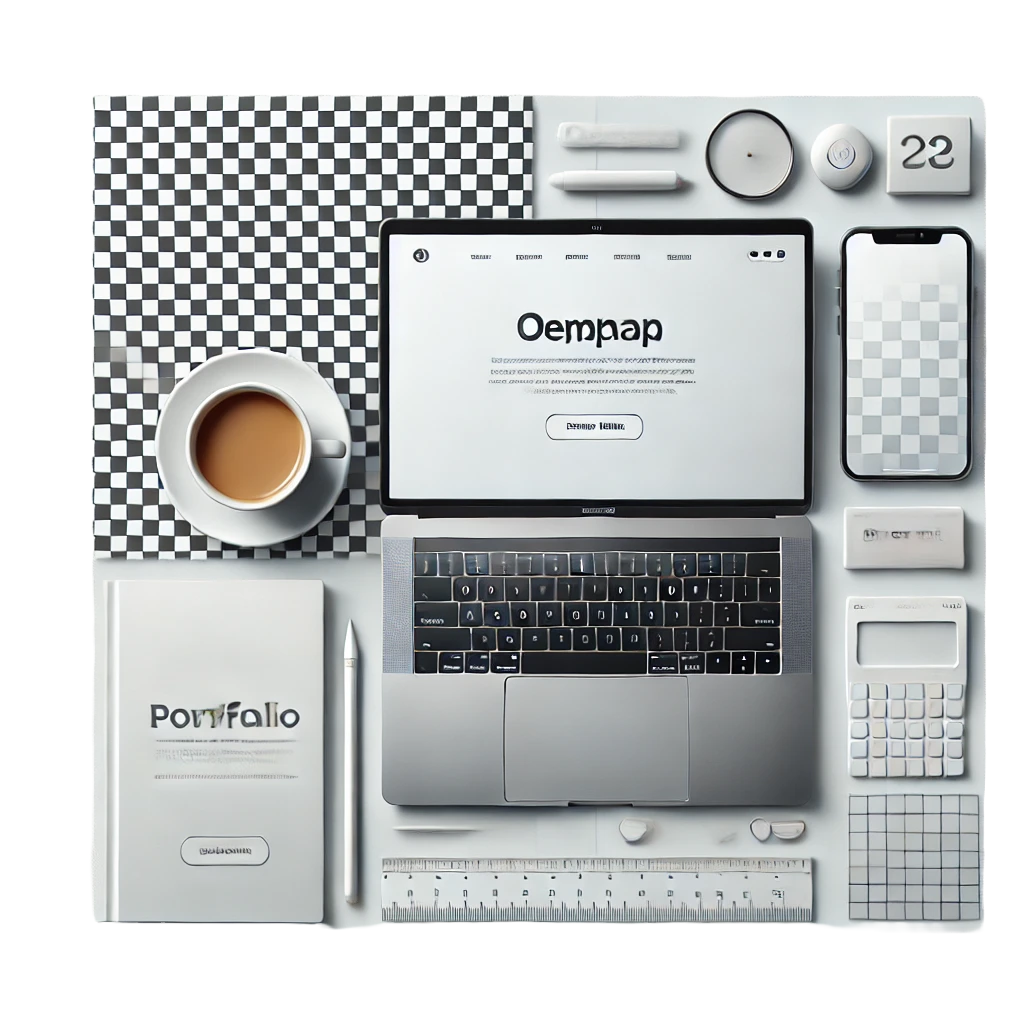
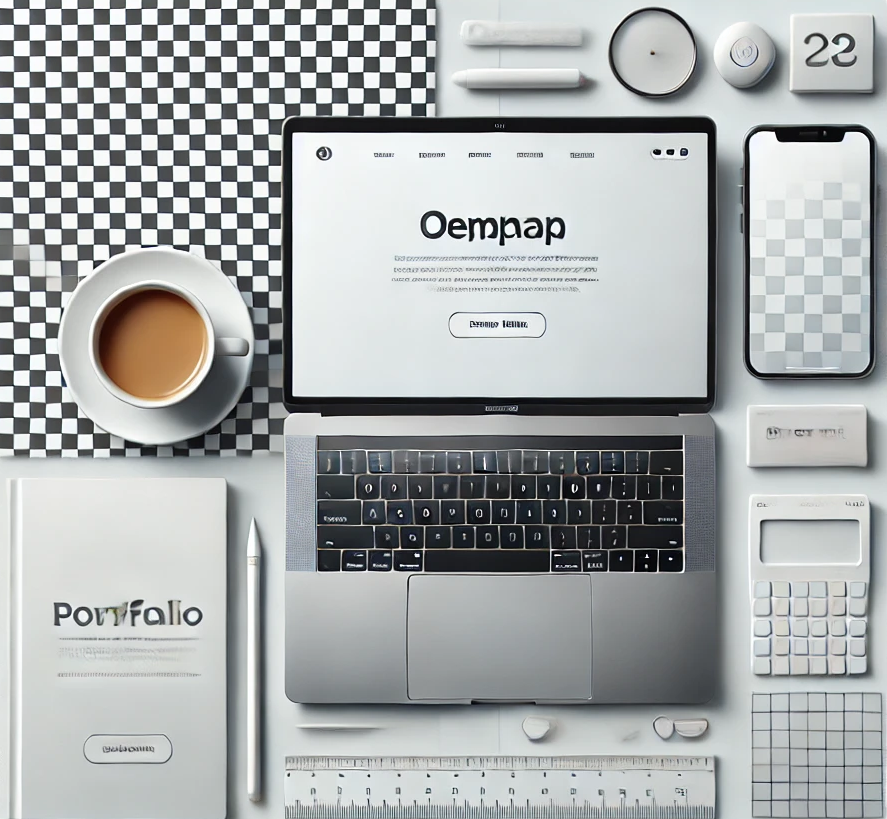
add login, list, and single page components; implement search bar and update home page layout

diff --git a/client/src/components/searchbar/searchbar.scss b/client/src/components/searchbar/searchbar.scss
@@ -1,0 +1,100 @@
+@import "../../responsive.scss";
+
+
+.searchBar{
+   .type{
+
+      // @include sm{
+      //    margin-bottom: 1px;
+      // }
+      button{
+         padding: 16px 36px;;
+         border: 1px solid #999;
+         cursor: pointer;
+         background-color: white;
+         border-bottom: none;
+         text-transform: capitalize;
+
+         &.active{
+            background-color: black;
+            color: white;
+         }
+
+         &:first-child{
+            border-top-left-radius: 5px;
+            border-right: none;
+         }
+         &:last-child{
+            border-top-right-radius: 5px;
+            border-left: none;
+         }
+      }
+   }
+
+   form{
+      border: 1px solid #999;
+      display: flex;
+      justify-content: space-between;
+      height: 64px;
+      gap: 5px;
+
+      @include sm{
+         flex-direction: column;
+         border:none
+      }
+
+      input{
+         border:none;
+         padding: 0 10px;
+         width: 200px;
+
+         @include lg{
+            padding: 0 5px;
+            width: 140px;
+            &:nth-child(2),
+            &:nth-child(3){
+               width: 140px;
+            }
+         }
+
+         @include md{
+            padding: 0 5px;
+            width: 200px;
+            &:nth-child(2),
+            &:nth-child(3){
+               width: 200px;
+            }
+         }
+
+         @include sm{
+            padding: 25px;
+            border: 1px solid #999;
+            width: auto;
+            &:nth-child(2),
+            &:nth-child(3){
+               width: auto;
+            }
+         }
+      }
+
+      button{
+         border:none;
+         cursor: pointer;
+         background-color: #fece51;
+         border-radius: 5px;
+         flex: 1;
+
+         @include sm{
+            padding: 10px;
+            margin-top: 5px;
+            width: 100%;
+         }
+
+         img{
+            width: 24px;
+            height: 24px;
+         }
+      }
+   }
+
+}

diff --git a/client/src/pages/home-page/home-page.js b/client/src/pages/home-page/home-page.js
@@ -1,3 +1,4 @@
+import SearchBar from "../../components/searchbar/searchbar";
 import "./home-page.scss";
 
 import React from "react";
@@ -5,9 +6,34 @@ import React from "react";
 function HomePage() {
   return (
     <div className="homePage">
-      <div className="textContainer">text</div>
+      <div className="textContainer">
+        <div className="wrapper">
+          <h1 className="title">Find Real Estate & Get Your Dream Place</h1>
+          <p>
+            Lorem, ipsum dolor sit amet consectetur adipisicing elit.
+            Perferendis harum quaerat porro ipsum, dignissimos veritatis
+            blanditiis ratione vitae ipsa cum consequatur fuga quas, debitis
+            deserunt omnis aperiam pariatur facere sed.
+          </p>
+          <SearchBar />
+          <div className="boxes">
+            <div className="box">
+              <h1>16+</h1>
+              <h2>Years of Experience</h2>
+            </div>
+            <div className="box">
+              <h1>200</h1>
+              <h2>Award Gained</h2>
+            </div>
+            <div className="box">
+              <h1>2000</h1>
+              <h2>Property Ready</h2>
+            </div>
+          </div>
+        </div>
+      </div>
       <div className="imgContainer">
-        <img src="/slider.png" alt="" />
+        <img src="/bg.png" alt="" />
       </div>
     </div>
   );

diff --git a/client/src/pages/home-page/home-page.scss b/client/src/pages/home-page/home-page.scss
@@ -1,13 +1,82 @@
+@import "../../responsive.scss";
+
 .homePage{
    display: flex;
    height: 100%;
 
    .textContainer{
       flex:3;
+      
+      .wrapper{
+         padding-right: 100px;
+         display: flex;
+         flex-direction: column;
+         justify-content: center;
+         gap: 50px;
+         height: 100%;
+
+         @include md{
+            padding: 0;
+         }
+
+         @include sm{
+            justify-content: flex-start;
+         }
+      }
+
+      .title{
+         font-size: 64px;
+
+         @include lg{
+            font-size: 48px;
+         }
+      }
+
+      .boxes{
+         display: flex;
+         justify-content: space-between;
+
+         @include sm{
+            display: none;
+         }
+         
+         h1{
+            font-size: 36px;
+
+            @include lg{
+               font-size: 32px;
+            }
+         }
+
+         h2{
+            font-size: 20px;
+            font-weight: 300;
+
+         }
+      }
    }
 
    .imgContainer{
       flex:2;
       background-color: whitesmoke;
+      position: relative;
+      display: flex;
+      align-items: center;
+
+      @include md{
+         display: none;
+      }
+
+      img{
+         width: 115%;
+         position: absolute;
+         right: 0;
+
+         @include lg{
+            width: 100%;
+         }
+      }
+
+      
    }
 }

diff --git a/client/src/components/searchbar/searchbar.js b/client/src/components/searchbar/searchbar.js
@@ -1,0 +1,56 @@
+import "./searchbar.scss";
+
+import React, { useState } from "react";
+
+const types = ["buy", "rent"];
+
+function SearchBar() {
+  const [query, setQuery] = useState({
+    type: "buy",
+    location: "",
+    minPrice: 0,
+    maxPrice: 0,
+  });
+
+  const switchType = (val) => {
+    setQuery((prev) => ({ ...prev, type: val }));
+  };
+
+  return (
+    <div className="searchBar">
+      <div className="type">
+        {types.map((type) => (
+          <button
+            key={type}
+            onClick={() => switchType(type)}
+            className={query.type === type ? "active" : ""}
+          >
+            {type}
+          </button>
+        ))}
+      </div>
+      <form>
+        <input type="text" name="location" placeholder="City Location" />
+        <input
+          type="number"
+          name="minPrice"
+          min={0}
+          max={100000000}
+          placeholder="Min Price"
+        />
+        <input
+          type="number"
+          name="maxPrice"
+          min={0}
+          max={100000000}
+          placeholder="Max Price"
+        />
+        <button>
+          <img src="/search.png" alt="" />
+        </button>
+      </form>
+    </div>
+  );
+}
+
+export default SearchBar;

diff --git a/client/src/App.js b/client/src/App.js
@@ -1,18 +1,27 @@
-import Navbar from "./components/navbar/navbar";
-import "./layout.scss";
+import { createBrowserRouter, RouterProvider } from "react-router-dom";
+import Layout from "./pages/layout/layout";
 import HomePage from "./pages/home-page/home-page";
+import ListPage from "./pages/list-page/list-page";
 
 function App() {
-  return (
-    <div className="layout">
-      <div className="navbar">
-        <Navbar />
-      </div>
-      <div className="content">
-        <HomePage />
-      </div>
-    </div>
-  );
+  const router = createBrowserRouter([
+    {
+      path: "/",
+      element: <Layout />,
+      children: [
+        {
+          path: "/",
+          element: <HomePage />,
+        },
+        {
+          path: "/list",
+          element: <ListPage />,
+        },
+      ],
+    },
+  ]);
+
+  return <RouterProvider router={router} />;
 }
 
 export default App;

diff --git a/client/src/pages/layout/layout.js b/client/src/pages/layout/layout.js
@@ -1,0 +1,19 @@
+import React from "react";
+import "./layout.scss";
+import Navbar from "../../components/navbar/navbar";
+import { Outlet } from "react-router-dom";
+
+const Layout = () => {
+  return (
+    <div className="layout">
+      <div className="navbar">
+        <Navbar />
+      </div>
+      <div className="content">
+        <Outlet />
+      </div>
+    </div>
+  );
+};
+
+export default Layout;

diff --git a/client/src/components/navbar/navbar.scss b/client/src/components/navbar/navbar.scss
@@ -59,13 +59,15 @@ nav{
       }
 
       a{
-         padding:10px;
+         padding:5px;
+         padding-right: 10px;
+         padding-left: 10px;
          margin:20px;
       }
 
       .register{
-         background-color:gray;
-         color:whitesmoke;
+         background-color: #fece51;
+         color:white;
          border-radius: 5px;
       }
 

diff --git a/client/src/pages/list-page/list-page.js b/client/src/pages/list-page/list-page.js
@@ -1,0 +1,13 @@
+import React from "react";
+import "./list-page.scss";
+
+function ListPage() {
+  return (
+    <div className="listPage">
+      ListPage
+      <p>Test</p>
+    </div>
+  );
+}
+
+export default ListPage;

diff --git a/client/src/pages/single-page/single-page.js b/client/src/pages/single-page/single-page.js
@@ -1,0 +1,8 @@
+import React from "react";
+import "./single-page.scss";
+
+const SinglePage = () => {
+  return <div></div>;
+};
+
+export default SinglePage;

diff --git a/client/src/pages/login/login.js b/client/src/pages/login/login.js
@@ -1,0 +1,8 @@
+import React from "react";
+import "./login.scss";
+
+const Login = () => {
+  return <div></div>;
+};
+
+export default Login;

diff --git a/client/src/pages/layout/layout.scss b/client/src/pages/layout/layout.scss
@@ -1,4 +1,4 @@
-@import "./responsive.scss";
+@import "../../responsive.scss";
 
 .layout{
    height: 100vh;
